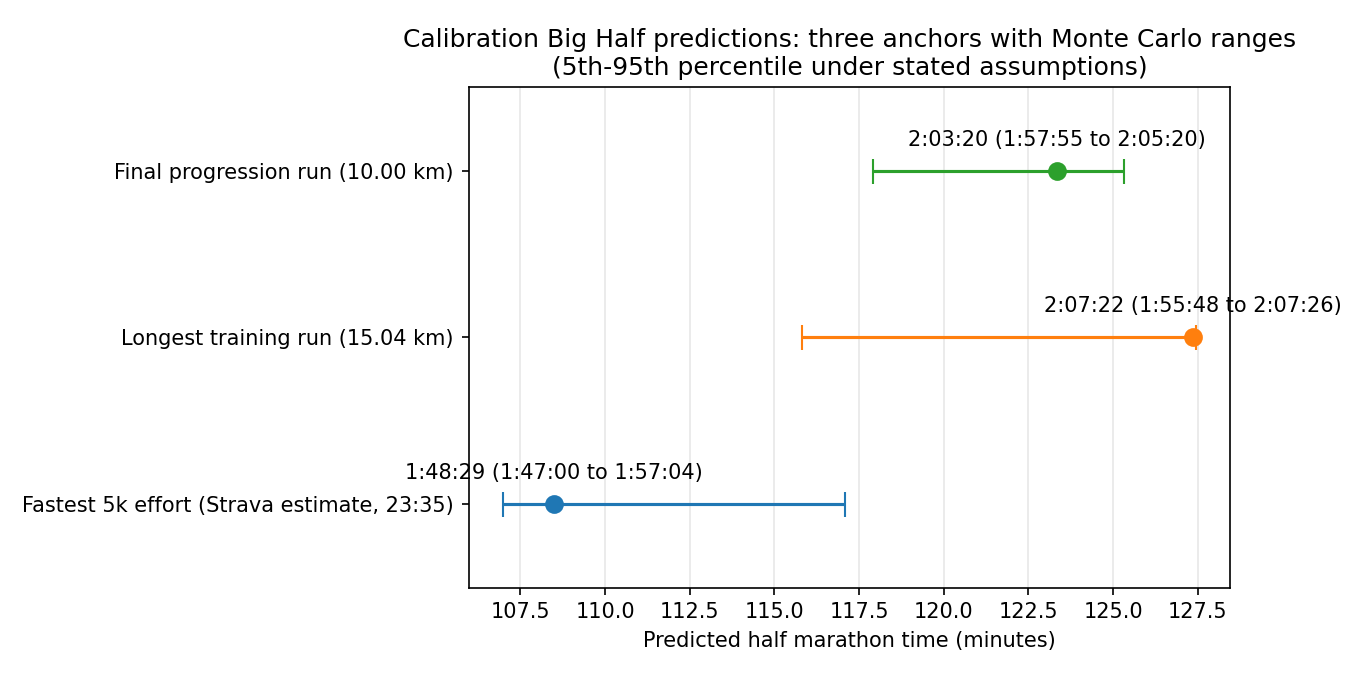
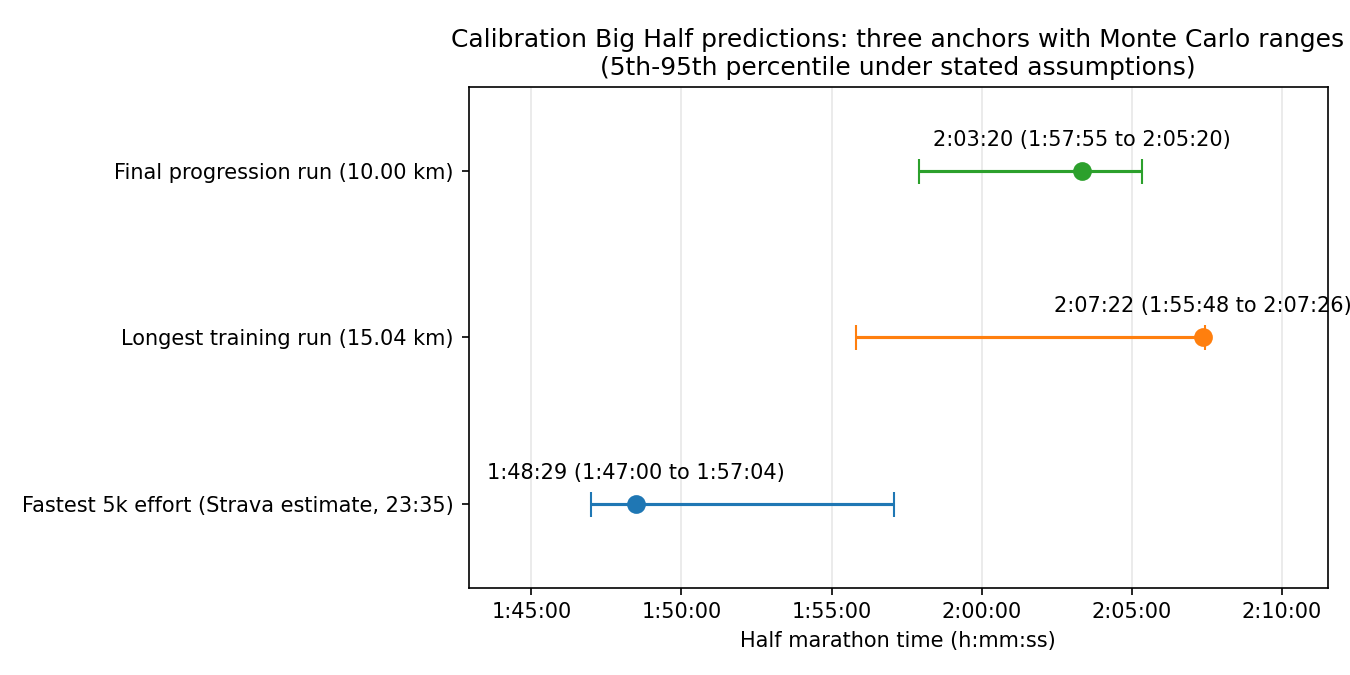
Redraw the charts on a clock-time axis and correct the Vickers citation
Charts. All three plotted a minutes axis while every annotation on them
was a clock time, so a reader had to convert to know what they were
looking at. They now plot seconds with the ticks formatted as h:mm:ss,
and the axis label says so. The value labels also overhung the frame on
the two error-bar charts, so those get horizontal padding.

This edits three committed charts and the two artefacts that pin a chart
hash, which the write-once rule otherwise forbids. It is recorded as an
exception in the Overview, alongside the baseline regeneration. Only the
Chart SHA-256 line moved in each artefact: no predicted value and no
generation timestamp changed, and baseline_prediction.md, which pins no
hash, is untouched.

Vickers and Vertosick. The paper reports that Riegel is well calibrated
up to the half marathon and badly optimistic beyond it. It was cited
here for a claim about training volume and larger exponents that its
abstract does not make, in two places: as support for reading the 5k
anchor as the fast end, and as the justification for drawing exponents
up to 1.10. Both now say what the paper says, and the exponent range is
described as the hedge it is rather than borrowing authority it does
not have.

diff --git a/src/big_half/charts.py b/src/big_half/charts.py
@@ -11,12 +11,28 @@ matplotlib.use("Agg")
 import matplotlib.pyplot as plt
 from matplotlib.lines import Line2D
 from matplotlib.patches import Patch
+from matplotlib.ticker import FuncFormatter, MultipleLocator
 
 from big_half.prediction import PredictionRange
 from big_half.race_comparison import RangeComparison
 from big_half.riegel import format_hms
 
 FIGURES_DIR = Path(__file__).resolve().parents[2] / "results" / "figures"
+
+# Every figure in this project is quoted as a clock time, so the axis is
+# too. Times are plotted in seconds and the ticks are formatted, rather
+# than plotting minutes and labelling in a second unit.
+TIME_AXIS_LABEL = "Half marathon time (h:mm:ss)"
+TIME_AXIS_TICK_SECONDS = 300  # a tick every five minutes
+# Horizontal padding as a fraction of the data range, so annotations
+# that overhang the widest interval still fit inside the axes.
+RANGE_LABEL_X_MARGIN = 0.20
+
+
+def _use_clock_time_axis(axis: plt.Axes) -> None:
+    axis.xaxis.set_major_locator(MultipleLocator(TIME_AXIS_TICK_SECONDS))
+    axis.xaxis.set_major_formatter(FuncFormatter(lambda seconds, _: format_hms(seconds)))
+    axis.set_xlabel(TIME_AXIS_LABEL)
 
 BASELINE_COMPARISON_TITLE = (
     "Baseline Big Half predictions: point estimates with Monte Carlo ranges\n"
@@ -34,13 +50,13 @@ def plot_prediction_comparison(
     figure, axis = plt.subplots(figsize=(9, 4.5))
 
     for position, prediction in enumerate(ranges):
-        point_min = prediction.point_s / 60
-        low_min = prediction.low_s / 60
-        high_min = prediction.high_s / 60
         axis.errorbar(
-            [point_min],
+            [prediction.point_s],
             [position],
-            xerr=[[point_min - low_min], [high_min - point_min]],
+            xerr=[
+                [prediction.point_s - prediction.low_s],
+                [prediction.high_s - prediction.point_s],
+            ],
             fmt="o",
             capsize=6,
             markersize=8,
@@ -48,7 +64,7 @@ def plot_prediction_comparison(
         axis.annotate(
             f"{format_hms(prediction.point_s)} "
             f"({format_hms(prediction.low_s)} to {format_hms(prediction.high_s)})",
-            (point_min, position),
+            (prediction.point_s, position),
             textcoords="offset points",
             xytext=(0, 12),
             ha="center",
@@ -57,7 +73,10 @@ def plot_prediction_comparison(
     axis.set_yticks(range(len(ranges)))
     axis.set_yticklabels([prediction.anchor.label for prediction in ranges])
     axis.set_ylim(-0.5, len(ranges) - 0.5)
-    axis.set_xlabel("Predicted half marathon time (minutes)")
+    # The value labels sit above the widest interval, so leave room for the
+    # text rather than letting it run into the frame.
+    axis.margins(x=RANGE_LABEL_X_MARGIN)
+    _use_clock_time_axis(axis)
     axis.set_title(title)
     axis.grid(axis="x", alpha=0.3)
     figure.tight_layout()
@@ -113,31 +132,28 @@ def plot_result_against_ranges(
     figure, axis = plt.subplots(figsize=(9.5, 4.8))
 
     for position, comparison in enumerate(comparisons):
-        low_min = comparison.low_s / 60
-        high_min = comparison.high_s / 60
         axis.barh(
             position,
-            width=high_min - low_min,
-            left=low_min,
+            width=comparison.high_s - comparison.low_s,
+            left=comparison.low_s,
             height=RANGE_BAR_HEIGHT,
             color=_range_bar_colour(comparison),
         )
         axis.annotate(
             f"{format_hms(comparison.low_s)} to {format_hms(comparison.high_s)}",
-            ((low_min + high_min) / 2, position),
+            ((comparison.low_s + comparison.high_s) / 2, position),
             textcoords="offset points",
             xytext=(0, 14),
             ha="center",
             fontsize=9,
         )
 
-    actual_min = actual_s / 60
-    axis.axvline(actual_min, color=ACTUAL_RESULT_COLOUR, linestyle="--", linewidth=2)
+    axis.axvline(actual_s, color=ACTUAL_RESULT_COLOUR, linestyle="--", linewidth=2)
     # Pinned to the top of the axes rather than to a bar, so the label
     # stays put whichever range the result happens to fall in.
     axis.annotate(
         f"Actual {format_hms(actual_s)}",
-        (actual_min, 1.0),
+        (actual_s, 1.0),
         xycoords=("data", "axes fraction"),
         textcoords="offset points",
         xytext=(6, -14),
@@ -152,7 +168,7 @@ def plot_result_against_ranges(
     )
     axis.set_ylim(-0.6, len(comparisons) - 0.4)
     axis.invert_yaxis()
-    axis.set_xlabel("Half marathon time (minutes)")
+    _use_clock_time_axis(axis)
     axis.set_title(title)
     axis.grid(axis="x", alpha=0.3)
     axis.legend(handles=_range_legend_handles(), loc="lower right", fontsize=9)

diff --git a/README.md b/README.md
@@ -28,7 +28,7 @@ The project is staged on purpose:
 2. **Calibration.** The final long run added as a third anchor, after the baseline was frozen: [`results/calibration_prediction.md`](results/calibration_prediction.md).
 3. **Race result.** The actual finish time measured against both published predictions: [`results/race_result.md`](results/race_result.md).
 
-Artefacts are written once and not edited afterwards. The one exception is recorded under Baseline results below, where the first artefact was regenerated the same day, before the race and before the write-once guard existed, to correct a labelling error. Each stage adds a new timestamped file and its own chart, so the history shows what was predicted, and when, before each new piece of evidence arrived. Rerunning a stage recomputes the values and reports whether they still match, but will not overwrite what is committed.
+Artefacts are written once and not edited afterwards, and the two exceptions are on the record. The baseline artefact was regenerated the same day it was written, before the race and before the write-once guard existed, to correct a labelling error; Baseline results below describes it. On 2026-09-17, after the project was finished, all three charts were redrawn on a clock-time axis and the two artefacts that pin a chart hash had those hashes updated to match. Neither edit changed a predicted value or a generation timestamp. Each stage adds a new timestamped file and its own chart, so the history shows what was predicted, and when, before each new piece of evidence arrived. Rerunning a stage recomputes the values and reports whether they still match, but will not overwrite what is committed.
 
 ## Method
 
@@ -48,7 +48,7 @@ The formula needs a known effort to extrapolate from. This dataset offers two na
 
 That is a 19-minute gap, and it is not a bug. It comes from what each anchor actually measures:
 
-- The **5k anchor** is close to a maximal effort, which is what Riegel's model assumes. Extrapolating a short maximal effort out to 21.1 km asks the formula to stretch over a 4x distance ratio, and it implicitly assumes the endurance base to hold that extrapolated pace. Vickers and Vertosick (2016), in a study of 2,303 recreational runners, found the standard 1.06 exponent well calibrated up to the half marathon on average, but optimistic for runners with lower training volume, who are better described by larger exponents. With a short training history like mine, the 5k-based figure is best read as the fast end of the plausible range.
+- The **5k anchor** is close to a maximal effort, which is what Riegel's model assumes. Extrapolating a short maximal effort out to 21.1 km asks the formula to stretch over a 4x distance ratio, and it implicitly assumes the endurance base to hold that extrapolated pace. Vickers and Vertosick (2016), in a study of 2,303 recreational runners, found the standard 1.06 exponent well calibrated for races up to the half marathon, and badly optimistic beyond it: their marathon predictions came in at least ten minutes too fast for half the sample. That supports the formula at this distance, but it does not vouch for a fourfold extrapolation off a short training history, so the 5k-based figure is best read as the fast end of the plausible range.
 - The **long-run anchor** is much closer to race distance (only a 1.4x extrapolation), which makes the formula more reliable. But it was a steady solo training run, not a race effort, and Riegel's formula assumes maximal efforts at both ends. Feeding it a sub-maximal time inflates the prediction, so the 2:07 figure is best read as the slow end.
 
 The truth plausibly sits between the two, and the honest output is a range, not a midpoint. A third anchor, the final progression run, is added in Calibration below, after this baseline was frozen.
@@ -57,7 +57,7 @@ The truth plausibly sits between the two, and the honest output is a range, not 
 
 With n = 11 there is nothing to bootstrap in the usual sense, so the uncertainty comes from a Monte Carlo simulation over the assumptions themselves (20,000 draws per anchor):
 
-- **Exponent:** drawn uniformly from 1.05 to 1.10, spanning Riegel's fitted 1.06 and the higher values Vickers and Vertosick (2016) found for recreational runners.
+- **Exponent:** drawn uniformly from 1.05 to 1.10. Riegel's fitted value is 1.06; the room above it is a hedge against a first-time half marathoner degrading faster than a population average, not a figure taken from any source.
 - **5k anchor time:** scaled by 0.98 to 1.04, because Strava's estimate is a best-effort extraction from within training runs, not a standalone time trial.
 - **Long-run effort:** scaled by 0.90 to 1.00, reflecting that a race effort over 15 km would plausibly be up to 10% faster than the logged steady training time.
 

diff --git a/results/race_result.md b/results/race_result.md
@@ -40,6 +40,6 @@ Gaps for windows containing the result are quoted as distance from the fast end,
 
 The implied exponent is the Riegel exponent that maps each anchor exactly onto the actual time. The time multiplier is what the anchor's logged time would have to be scaled by, at the standard b = 1.06 exponent, to land on the actual time over 21.0975 km. It is directly comparable with the multiplier assumed before the race, in the last column.
 
-Chart SHA-256: daac8ae2595c923bf2a4c9888d43db51a43510876fe5dd19ab069bb88ee1086e
+Chart SHA-256: 06c2891fc9b0f3476bc438ddaedf05260ea5d0c7c5f239c68af4c2bf910fce3b
 
 See the README Race Day Result section for what this means and how it relates to the pre-registered limitations.

diff --git a/results/calibration_prediction.md b/results/calibration_prediction.md
@@ -12,6 +12,6 @@ Predictions for the half marathon distance (21.0975 km), adding the final pre-ra
 
 Overall calibration range: **1:47:00 to 2:07:26** (union of the three anchor intervals).
 
-Chart SHA-256: 2467ffbbb2568f31300a2e5a3bf254bdacc0bed81988c2ee2d8151d43e9c049d
+Chart SHA-256: 0f797755678e09729e361f8e3e3beae0cfb86795fbbebf4412bb8c53486e3fb7
 
 See the README Calibration section for how this compares with the baseline and why the progression anchor's effort-scale assumption differs from the 15 km anchor's.
